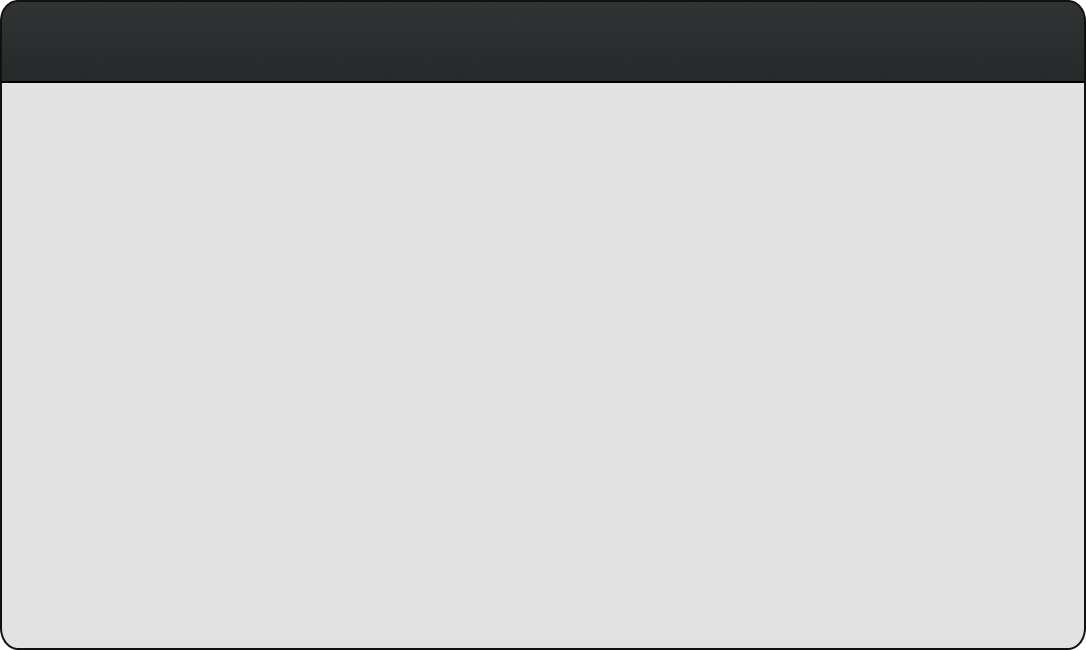
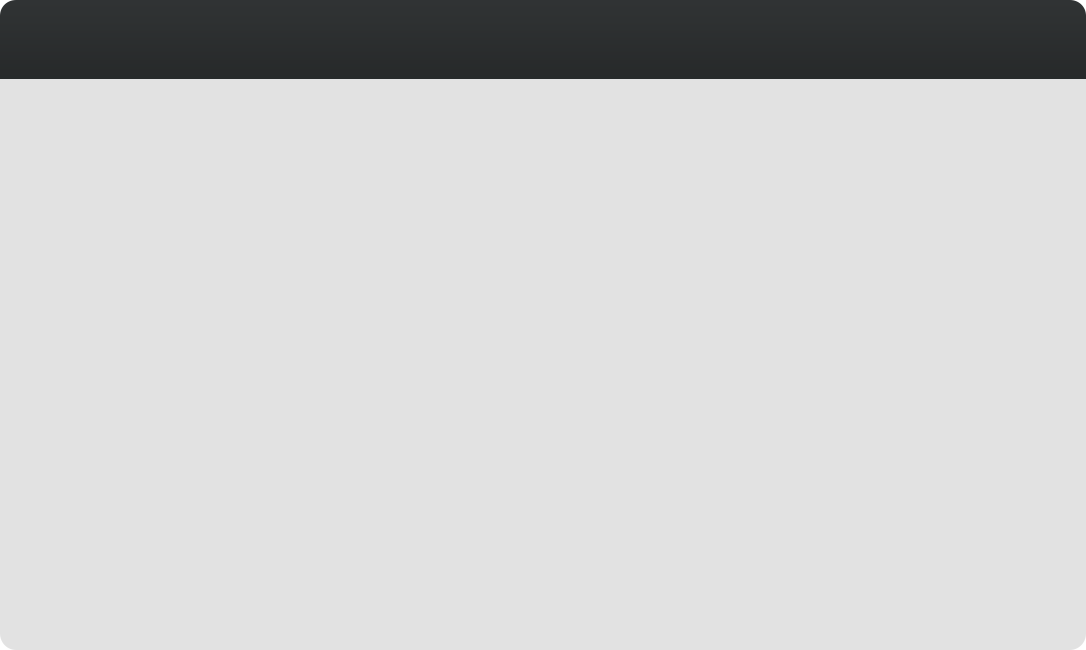
#214 - New background to login/signup views. Border is now done programatically. also new buttons

diff --git a/Shelby.tv/Shelby.tv/AuthorizationViewController.m b/Shelby.tv/Shelby.tv/AuthorizationViewController.m
@@ -13,6 +13,7 @@
 #import "SignupView.h"
 #import "ImageUtilities.h"
 #import "ShelbyAPIClient.h"
+#import <QuartzCore/QuartzCore.h>
 
 @interface AuthorizationViewController ()
 
@@ -37,6 +38,11 @@
     [super viewDidLoad];
     [self setTrackedViewName:@"Login / Sign Up"];
     [self setCurrentForm:self.loginView];
+    
+    self.view.layer.cornerRadius = 5;
+    self.view.layer.borderColor = [UIColor blackColor].CGColor;
+    self.view.layer.borderWidth = 1;
+    self.view.clipsToBounds = YES;
 }
 
 
